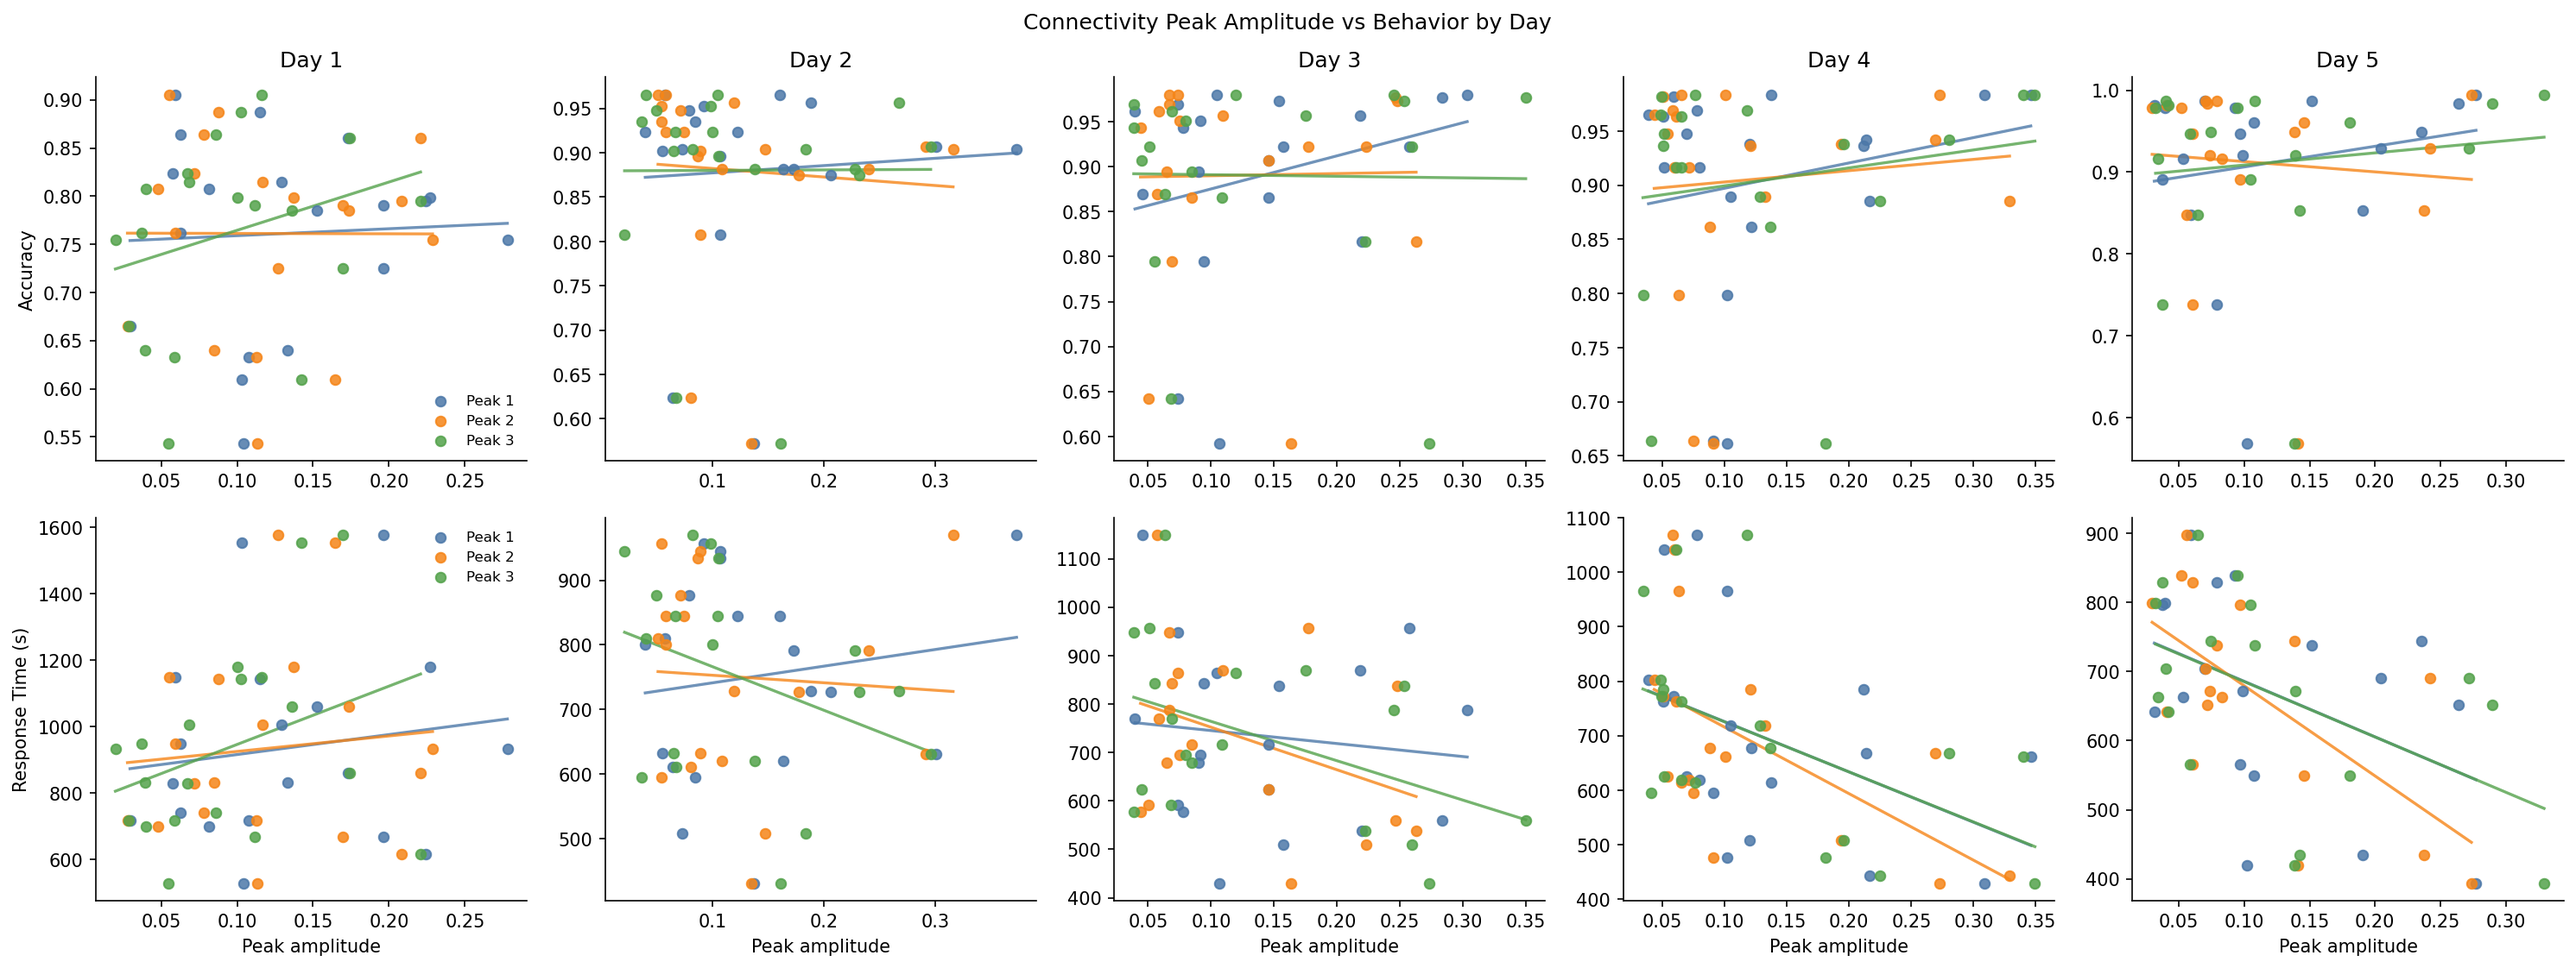
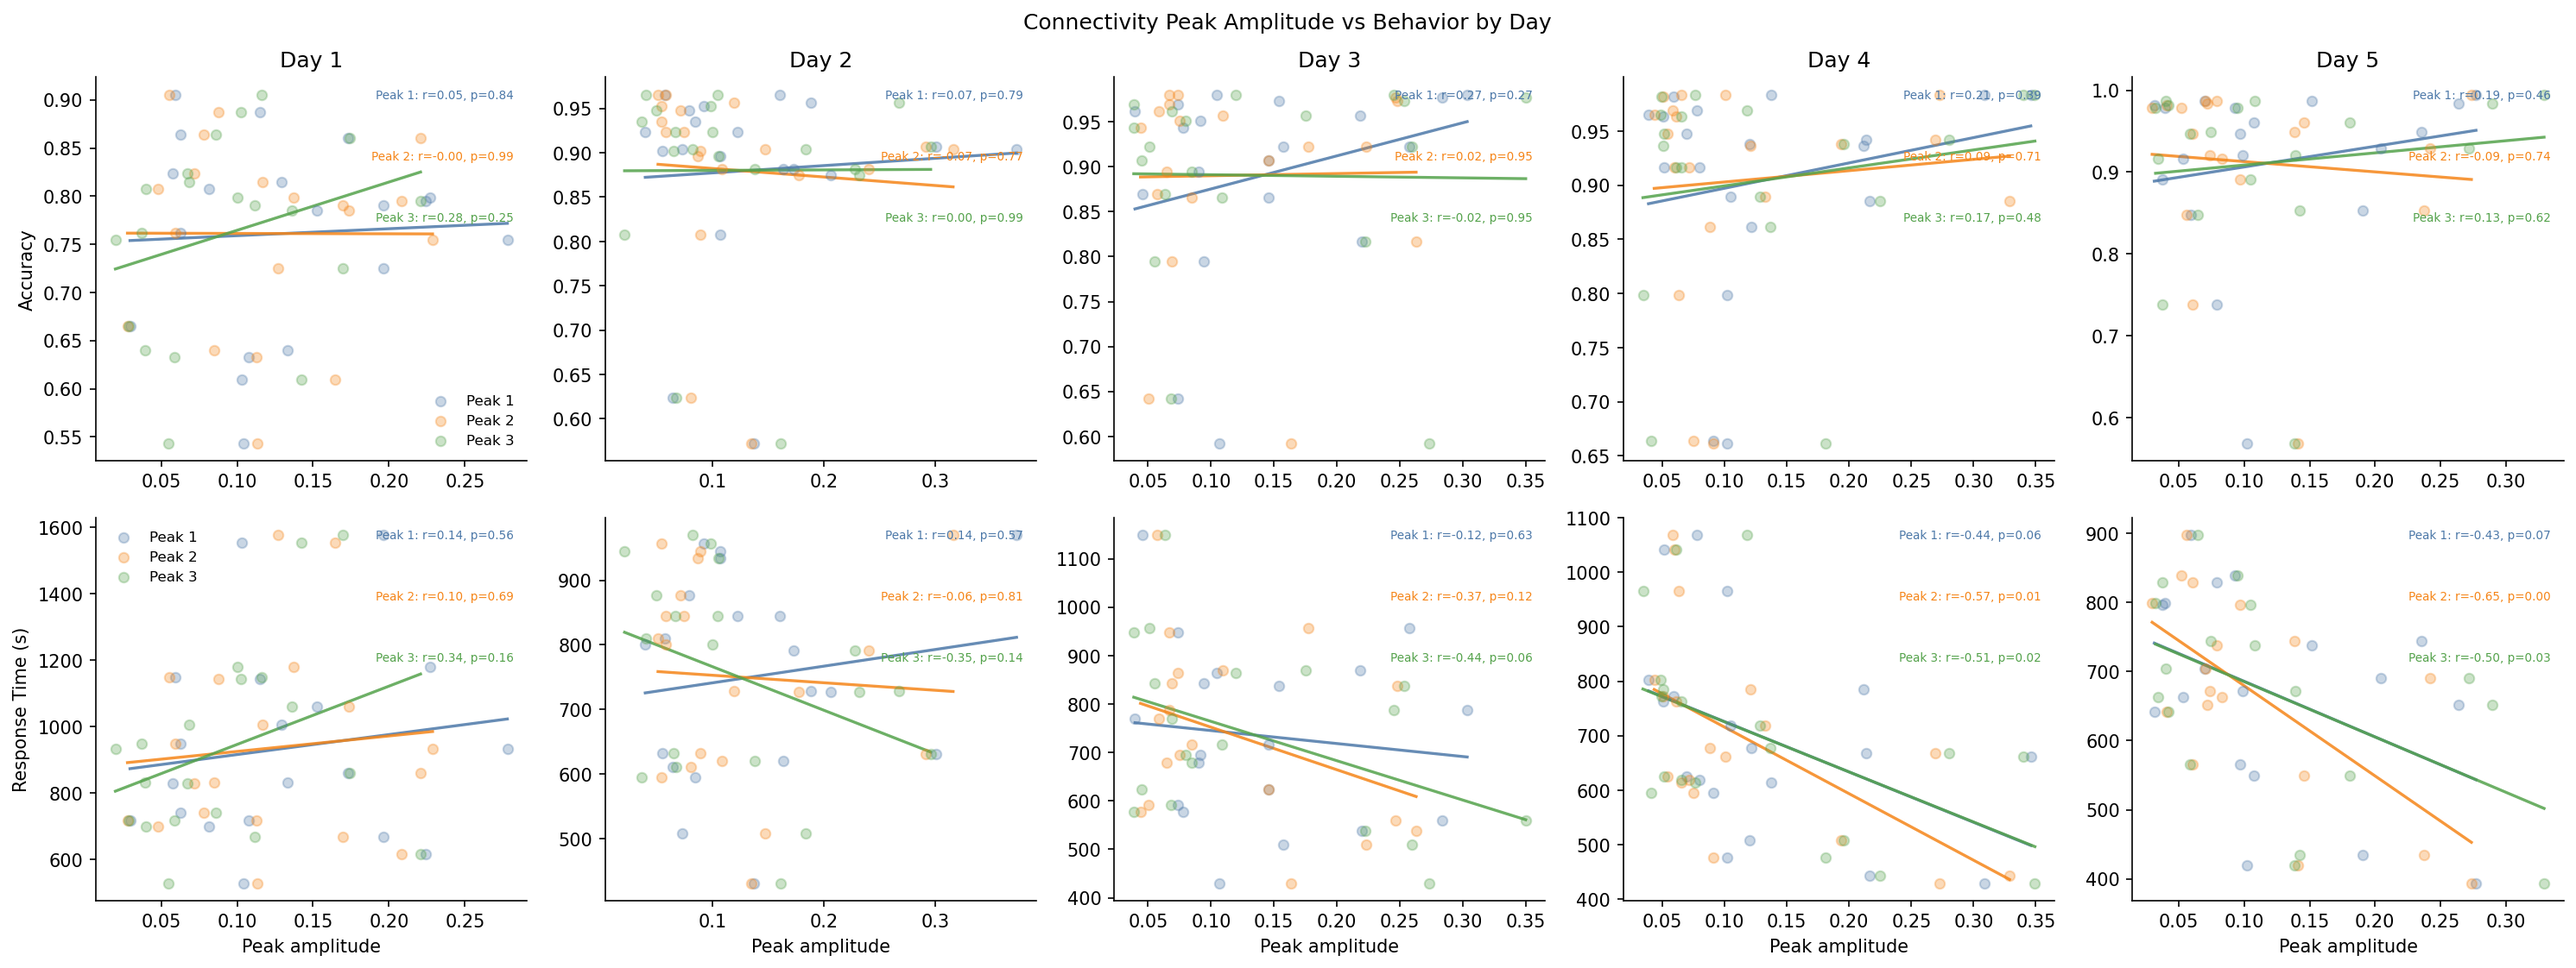
.

diff --git a/code/presentation_figure.py b/code/presentation_figure.py
@@ -1264,16 +1264,26 @@ def plot_presentation_connectivity_peak_behavior(output_dir, figures_dir):
         for col_i, day in enumerate(DAYS):
             ax = axes[row_i, col_i]
             d_day = merged[merged["day"] == day]
+            annot_lines = []
             for peak, color in zip(PEAK_LABELS, PEAK_COLORS):
                 g = d_day[d_day["peak"] == peak]
                 x = g["amplitude"].to_numpy(float)
                 y = g[measure_col].to_numpy(float)
-                ax.scatter(x, y, color=color, s=30, alpha=0.85,
+                ax.scatter(x, y, color=color, s=30, alpha=0.30,
                            label=peak if col_i == 0 else None, zorder=3)
                 reg = _regression_line(x, y)
                 if reg is not None:
                     x_line, y_line, r, p = reg
-                    ax.plot(x_line, y_line, color=color, linewidth=1.6, alpha=0.8)
+                    ax.plot(x_line, y_line, color=color, linewidth=1.6, alpha=0.85)
+                    annot_lines.append((peak, color, r, p))
+            for k, (peak, color, r, p) in enumerate(annot_lines):
+                ax.text(
+                    0.97, 0.97 - k * 0.16,
+                    f"{peak}: r={r:.2f}, p={p:.2f}",
+                    transform=ax.transAxes,
+                    fontsize=6.5, color=color,
+                    ha="right", va="top",
+                )
             if col_i == 0:
                 ax.set_ylabel(measure_label)
                 ax.legend(frameon=False, fontsize=8)
